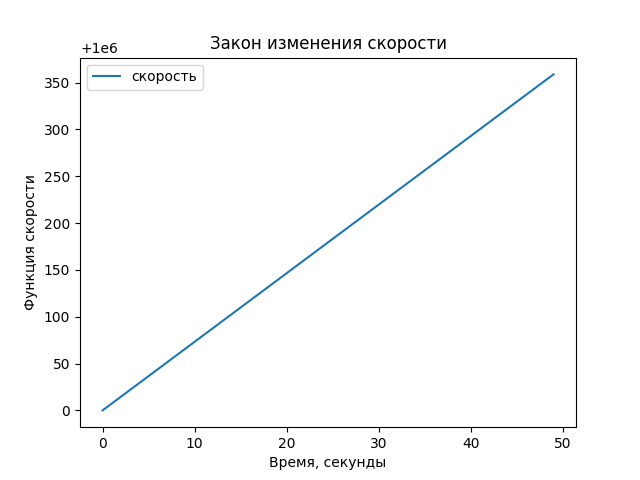
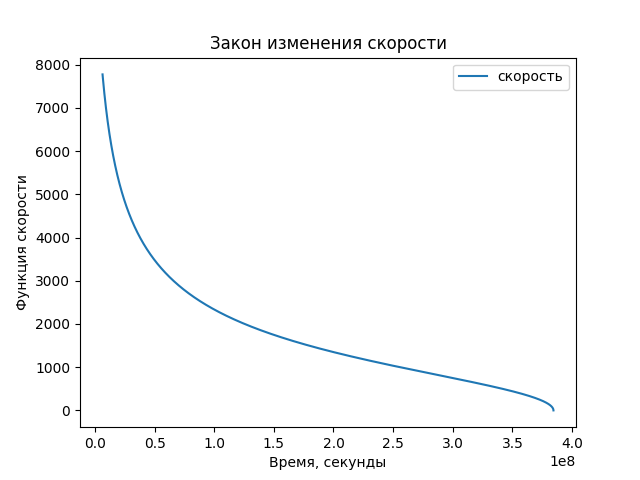
,kk,

diff --git a/lab_1_extratask1.py b/lab_1_extratask1.py
@@ -2,21 +2,24 @@ import numpy as np
 from scipy.integrate import odeint
 import matplotlib.pyplot as plt
 
-h_0 = 1000 * 10**3 # высота, м
+r_0 = 384400000 # высота, м
+v_0 = 1
+
 R_earth = 6378.1 * 10**3 # радиус Земли, м
 M_earth = 5.974 * 10**24 # масса Земли, кг
 G = 6.67 * 10**(-11)
-t = np.arange(0, 50, 1)
 
-def speed_function(h, t):
-    dvdt = G*M_earth/(R_earth+h)**2
-    print(dvdt)
-    return dvdt
+r = np.arange(0, r_0 - R_earth, 500)
 
-v_t = odeint(speed_function, h_0, t)
+def speed_function(v, r):
+    dvdr = (G*M_earth)/(v*(r_0 + R_earth - r)**2)
+
+    return dvdr
+
+v_r = odeint(speed_function, v_0, r)
 
 
-plt.plot(t, v_t[:,0], label="скорость")
+plt.plot(r_0 - r, v_r[:,0], label="скорость")
 plt.xlabel("Время, секунды")
 plt.ylabel("Функция скорости")
 plt.title("Закон изменения скорости")

diff --git a/lab_1_task2.py b/lab_1_task2.py
@@ -4,14 +4,14 @@ import matplotlib.pyplot as plt
 
 n_0 = 1000
 k = 0.08
-t = np.arange(0, 100, 1)
+t = np.arange(0, 10, 0.01)
 summa = 0
 
 print("Закон изменения инвестиций: v = 0.08 * n,\nгде v - скорость, n - инвестируемые в данный момент времени средства, k - коэфицент пропорциональности.")
 print()
 
 def investment_function(n, t):
-    dndt = -(k * n)
+    dndt = -(k * n * t)
     return dndt
 
 for i in range(0, 5):
